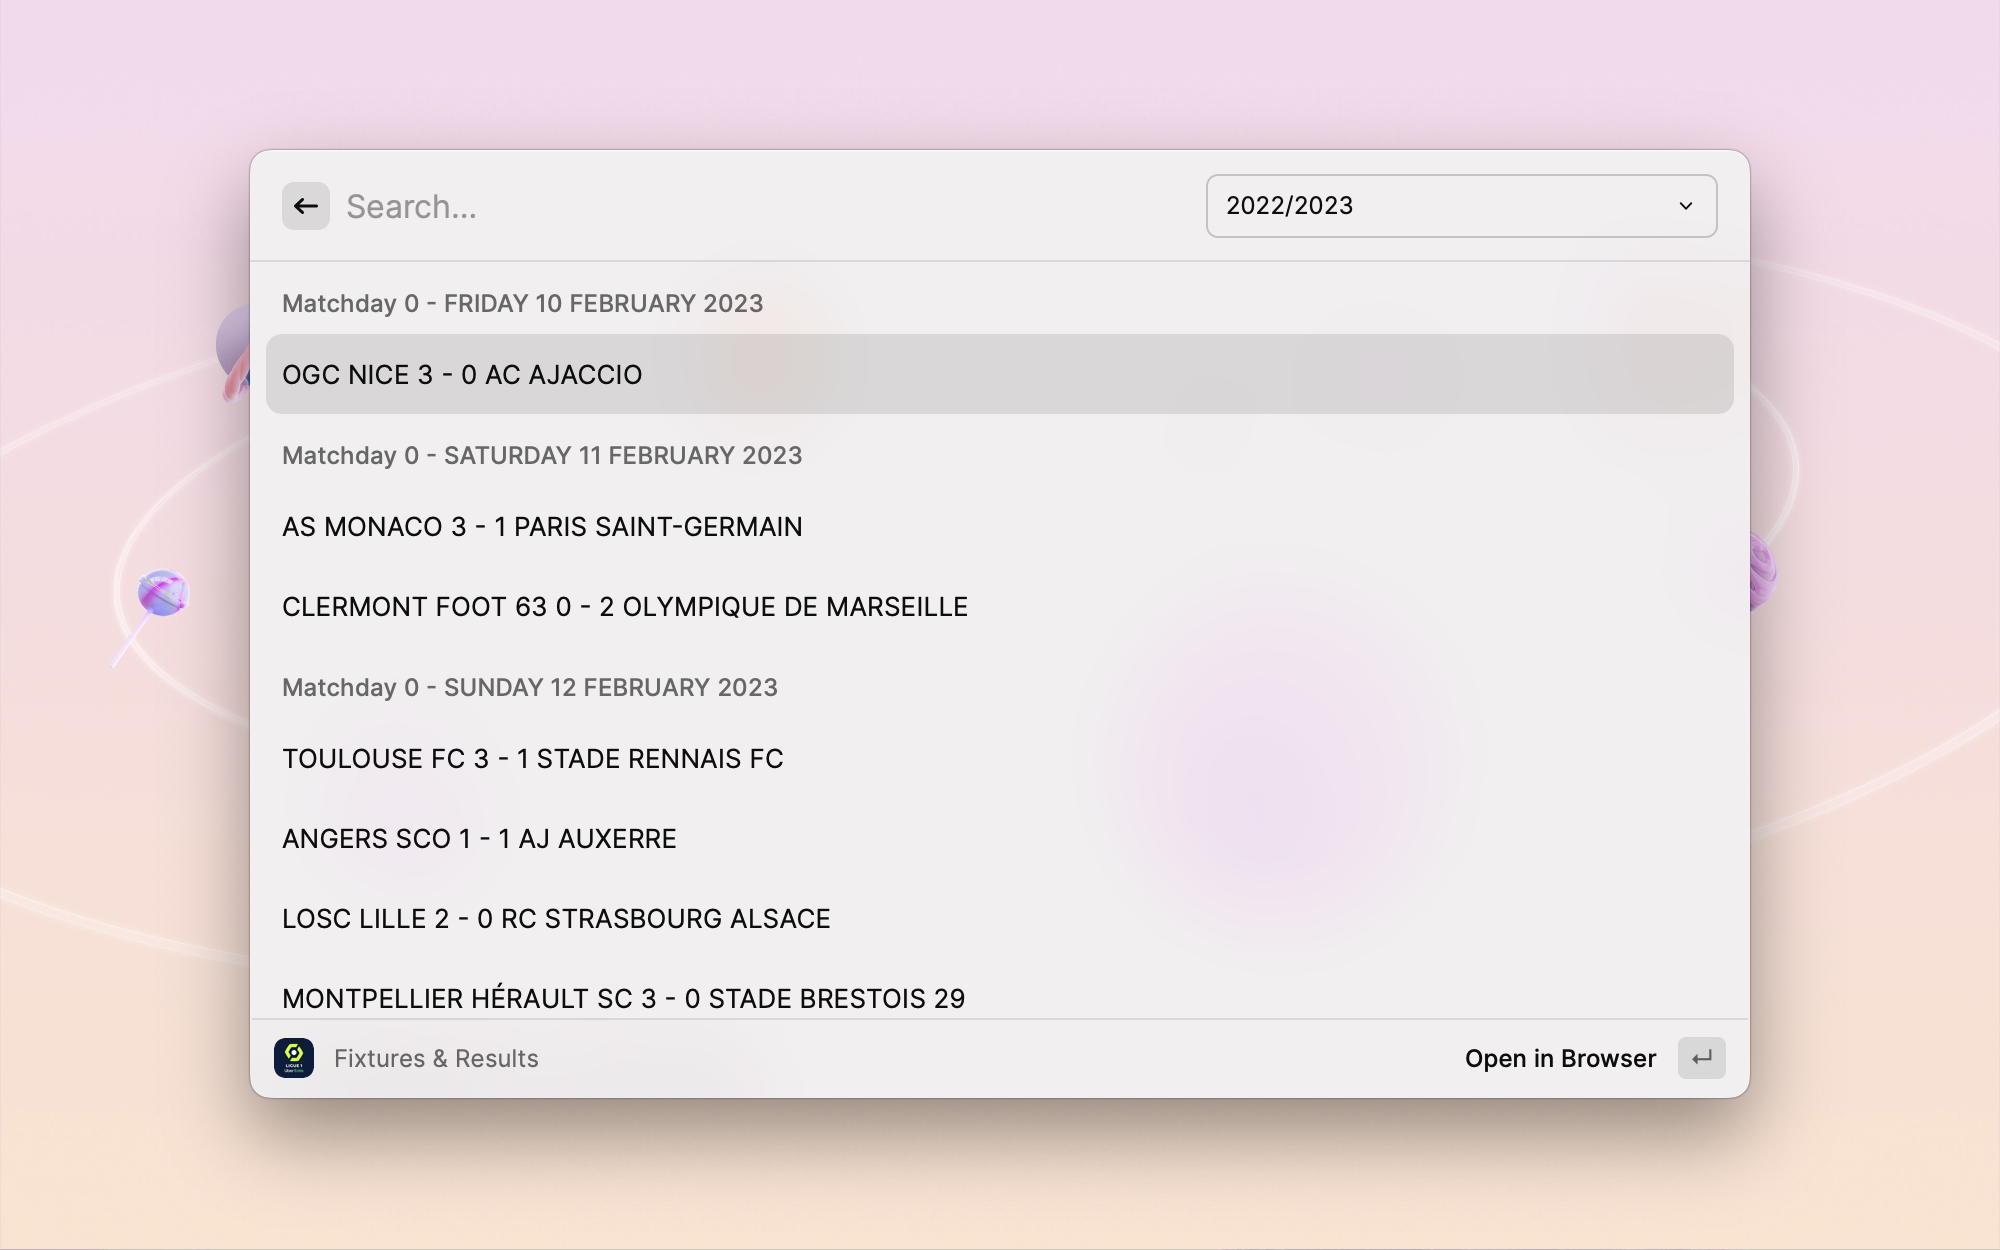
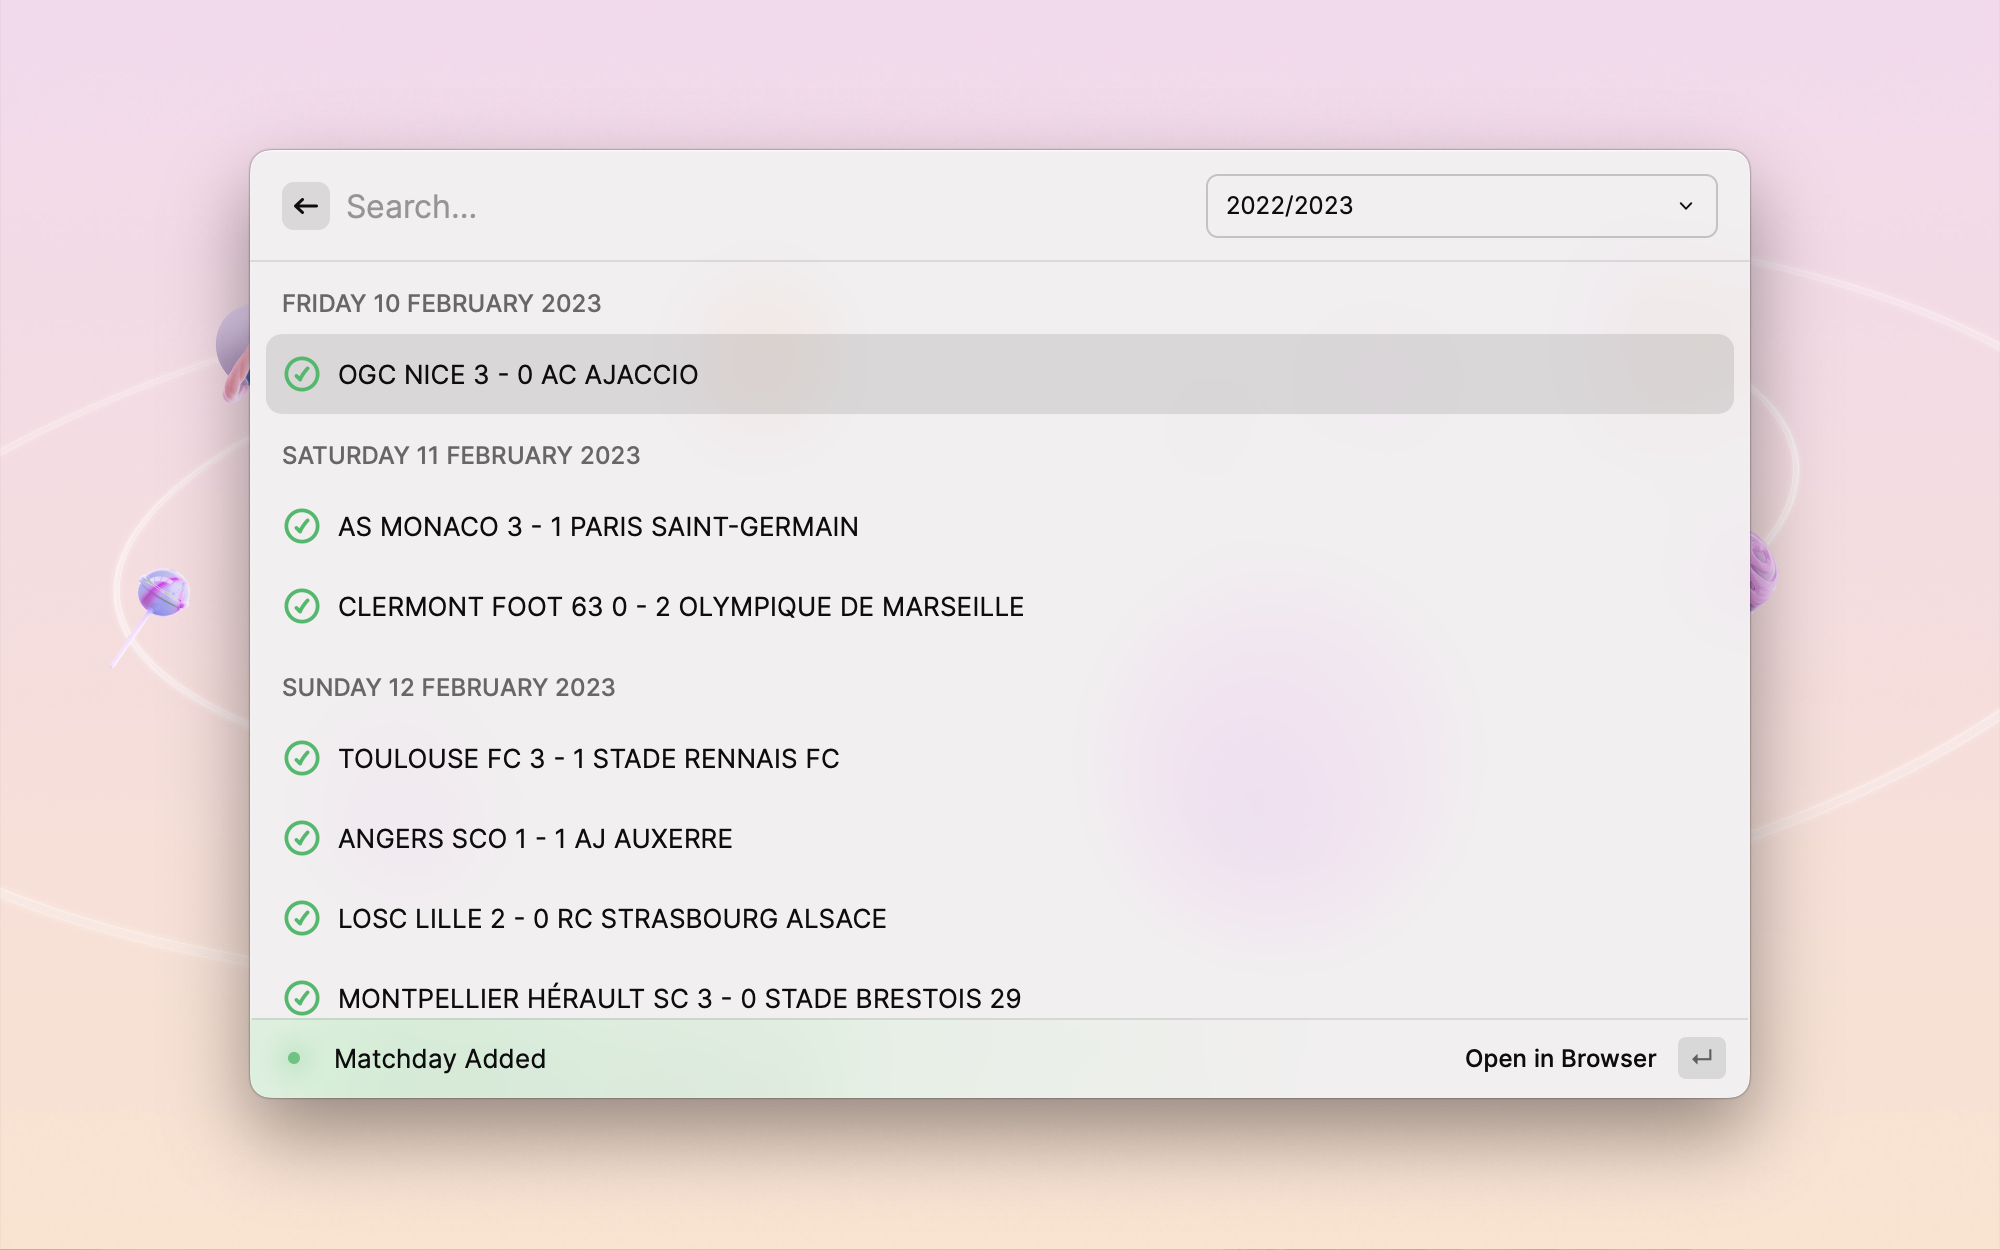
fix: add more standing stats

diff --git a/src/table.tsx b/src/table.tsx
@@ -56,20 +56,36 @@ export default function GetTables() {
           },
         ];
 
-        // if (!showStats) {
-        //   accessories.unshift(
-        //     {
-        //       icon: Icon.SoccerBall,
-        //       text: team.played.toString(),
-        //       tooltip: "Played",
-        //     },
-        //     {
-        //       icon: Icon.Goal,
-        //       text: `${team.goals_for} - ${team.goals_against}`,
-        //       tooltip: "Goals For - Goals Against",
-        //     }
-        //   );
-        // }
+        if (!showStats) {
+          team.forms.reverse().forEach((form) => {
+            let tintColor = Color.SecondaryText;
+            if (form === "win") {
+              tintColor = Color.Green;
+            } else if (form === "lose") {
+              tintColor = Color.Red;
+            }
+
+            accessories.unshift({
+              icon: {
+                source: Icon.CircleFilled,
+                tintColor,
+              },
+            });
+          });
+
+          accessories.unshift(
+            {
+              icon: Icon.SoccerBall,
+              text: team.played,
+              tooltip: "Played",
+            },
+            {
+              icon: Icon.Goal,
+              text: `${team.goals_for} - ${team.goals_against}`,
+              tooltip: "Goals For - Goals Against",
+            }
+          );
+        }
 
         return (
           <List.Item
@@ -86,36 +102,36 @@ export default function GetTables() {
                     <List.Item.Detail.Metadata.Label title="Stats" />
                     {/* <List.Item.Detail.Metadata.Label
                       title="Previous Position"
-                      text={team.previous_position.toString()}
-                    />
+                      text={team.previous_position}
+                    /> */}
                     <List.Item.Detail.Metadata.Label
                       title="Played"
-                      text={team.played.toString()}
+                      text={team.played}
                     />
                     <List.Item.Detail.Metadata.Label
                       title="Won"
-                      text={team.won.toString()}
+                      text={team.won}
                     />
                     <List.Item.Detail.Metadata.Label
                       title="Drawn"
-                      text={team.drawn.toString()}
+                      text={team.drawn}
                     />
                     <List.Item.Detail.Metadata.Label
                       title="Lost"
-                      text={team.lost.toString()}
+                      text={team.lost}
                     />
                     <List.Item.Detail.Metadata.Label
                       title="Goals For"
-                      text={team.goals_for.toString()}
+                      text={team.goals_for}
                     />
                     <List.Item.Detail.Metadata.Label
                       title="Goals Against"
-                      text={team.goals_against.toString()}
+                      text={team.goals_against}
                     />
                     <List.Item.Detail.Metadata.Label
                       title="Goal Difference"
-                      text={team.goal_difference.toString()}
-                    /> */}
+                      text={team.goal_difference}
+                    />
                   </List.Item.Detail.Metadata>
                 }
               />

diff --git a/src/api/index.ts b/src/api/index.ts
@@ -65,31 +65,39 @@ export const getTable = async (seasonId: string): Promise<Standing[]> => {
       .findElements('//div[@class="classement-table-body"]');
     const rows = xpath.fromNode(table).findElements("//li");
 
-    const ranking = rows.map((node: any) => {
-      const pos = xpath
-        .fromNode(node)
-        .findElement("//div[contains(@class, 'GeneralStats-item--position')]");
-      const ranking = pos.getAttribute("class").split(" ")[2];
-      const position = pos.getText();
+    const ranking = rows.map((row: any) => {
+      const stats = xpath
+        .fromNode(row)
+        .findElements("//div[contains(@class, 'GeneralStats-item')]");
+      const ranking = stats[0].getAttribute("class").split(" ")[2];
+      const position = stats[0].getText();
+
       const name = xpath
-        .fromNode(node)
+        .fromNode(stats[1])
         .findElement("//span[contains(@class, 'GeneralStats-clubName')]")
         .getText();
-      const points = xpath
-        .fromNode(node)
-        .findElement("//div[contains(@class, 'GeneralStats-item--points')]")
-        .getText();
+
+      const img = xpath
+        .fromNode(stats[1])
+        .findElement("//img")
+        .getAttribute("data-src");
+
+      const points = stats[2].getText();
+      const played = stats[3].getText();
+      const won = stats[4].getText();
+      const drawn = stats[5].getText();
+      const lost = stats[6].getText();
+      const goals_for = stats[7].getText();
+      const goals_against = stats[8].getText();
+      const goal_difference = stats[9].getText();
+
       const forms = xpath
-        .fromNode(node)
+        .fromNode(stats[10])
         .findElements("//span[contains(@class, 'circle')]")
         .map((form: any) => {
           return form.getAttribute("class").replace("circle", "").trim();
         });
 
-      const img = xpath
-        .fromNode(node)
-        .findElement("//img")
-        .getAttribute("data-src");
       const indexOf = img.indexOf("?");
 
       return {
@@ -98,6 +106,13 @@ export const getTable = async (seasonId: string): Promise<Standing[]> => {
         position,
         ranking,
         points,
+        played,
+        won,
+        drawn,
+        lost,
+        goals_for,
+        goals_against,
+        goal_difference,
         forms,
       };
     });

diff --git a/src/result.tsx b/src/result.tsx
@@ -36,7 +36,7 @@ export default function Fixture() {
         [`Matchday ${matchday}`]: data,
       });
       showToast({
-        title: `Matchday ${matchday} Added`,
+        title: "Matchday Added",
         style: Toast.Style.Success,
       });
     });
@@ -50,21 +50,19 @@ export default function Fixture() {
         <SeasonDropdown selected={season} onSelect={setSeason} />
       }
     >
-      {Object.entries(fixtures || {}).map(([date, results]) => {
+      {Object.entries(fixtures || {}).map(([matchday, results]) => {
         const days: Fixtures = groupBy(results, "day");
 
         return Object.entries(days).map(([day, matches]) => {
           return (
-            <List.Section key={`${date} - ${day}`} title={`${date} - ${day}`}>
+            <List.Section key={day} title={day}>
               {matches.map((match) => {
-                // let icon: Image.ImageLike;
-                // if (match.status.toLowerCase().includes("half")) {
-                //   icon = { source: Icon.Livestream, tintColor: Color.Red };
-                // } else if (match.status === "FullTime") {
-                //   icon = { source: Icon.CheckCircle, tintColor: Color.Green };
-                // } else {
-                //   icon = Icon.Clock;
-                // }
+                let icon: Image.ImageLike;
+                if (match.title.includes("-")) {
+                  icon = { source: Icon.CheckCircle, tintColor: Color.Green };
+                } else {
+                  icon = Icon.Clock;
+                }
 
                 // const accessories: List.Item.Accessory[] = [
                 //   { text: match.venue.name },
@@ -80,7 +78,7 @@ export default function Fixture() {
                     //     ? `${match.home_team.nickname} - ${match.away_team.nickname}`
                     //     : `${match.home_team.nickname} ${match.home_score} - ${match.away_score} ${match.away_team.nickname}`
                     // }
-                    // icon={icon}
+                    icon={icon}
                     // accessories={accessories}
                     actions={
                       <ActionPanel>

diff --git a/src/types/index.d.ts b/src/types/index.d.ts
@@ -4,6 +4,13 @@ export interface Standing {
   position: string;
   ranking: string;
   points: string;
+  played: string;
+  won: string;
+  drawn: string;
+  lost: string;
+  goals_for: string;
+  goals_against: string;
+  goal_difference: string;
   forms: string[];
 }
 
